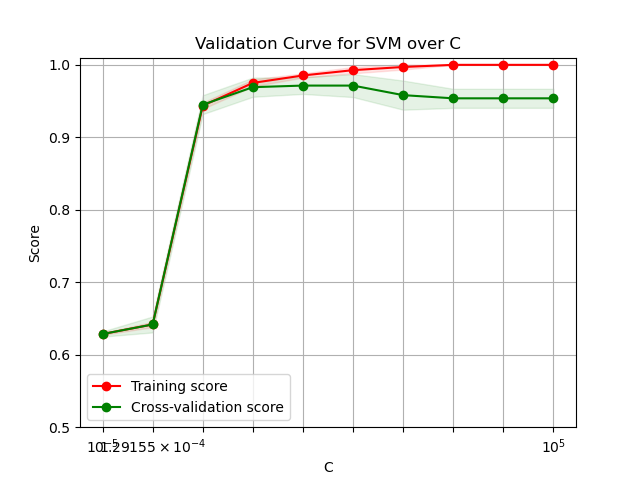
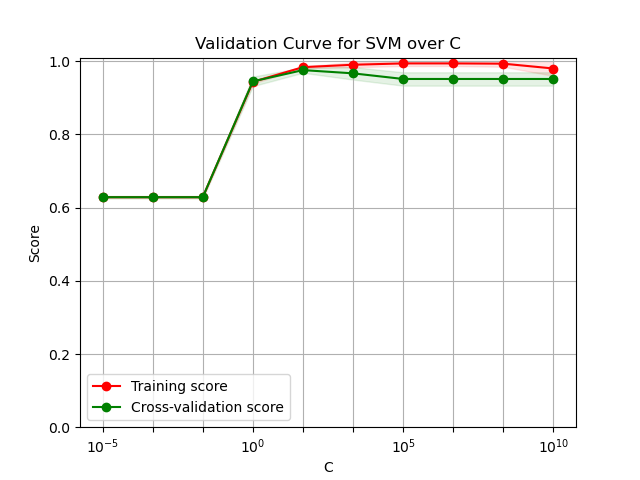
pr1 figures update

diff --git a/pr1/SVM.py b/pr1/SVM.py
@@ -29,7 +29,8 @@ class SupportVectorMachine(object):
         """
         clf_svm = SVC(random_state=42)
         param_grid = {'C': np.logspace(-5, 5, 10),
-                      'kernel': ['linear', 'poly', 'rbf', 'sigmoid']}
+                      'kernel': ['linear', 'poly', 'rbf', 'sigmoid'],
+                      'gamma': np.logspace(-5, 5, 10)}
         clf_svm.fit(X_train,y_train)
         print("SVM Accuracy on the Train set: ", clf_svm.score(X_train, y_train))
 
@@ -43,8 +44,8 @@ class SupportVectorMachine(object):
 
         if self.verbose:
             util.plot_learning_curve(self.dataset, best_svm, X_train, y_train, np.linspace(0.2,1,5, endpoint=True), title="Learning Curve for SVM")
-            util.plot_validation_curve(self.dataset, best_svm, X_train, y_train, title="Validation Curve for SVM over C", xlabel='C', p_name="C", p_range=np.logspace(-5, 5, 10), cv=4, log = True)
-            util.plot_validation_curve(self.dataset, best_svm, X_train, y_train, title="Validation Curve for SVM over kernel", xlabel='kernel', p_name="kernel", p_range=['linear', 'poly', 'rbf', 'sigmoid'], cv=4)
+            util.plot_validation_curve(self.dataset, best_svm, X_train, y_train, title="Validation Curve for SVM over C", xlabel='C', p_name="C", p_range=np.logspace(-5, 10, 10), ylim=(0, 1.01), cv=4, log = True)
+            util.plot_validation_curve(self.dataset, best_svm, X_train, y_train, title="Validation Curve for SVM over gamma", xlabel='gamma', p_name="gamma", p_range=np.logspace(-5, 10, 10), ylim=(0, 1.01), cv=4, log = True)
 
         start = time.time()
         best_svm.fit(X_train, y_train)

diff --git a/pr1/NN.py b/pr1/NN.py
@@ -24,7 +24,7 @@ class NeuralNetwork(object):
         build and train decision tree
         """
         clf_nn = MLPClassifier(random_state=42, max_iter=5000)
-        param_grid = {'hidden_layer_sizes': np.arange(1, 30),
+        param_grid = {'hidden_layer_sizes': np.arange(1, 100, 10),
                       'activation': ['identity', 'logistic', 'tanh', 'relu']}
         clf_nn.fit(X_train,y_train)
         print("NN Accuracy on the Train set: ", clf_nn.score(X_train, y_train))
@@ -37,7 +37,7 @@ class NeuralNetwork(object):
 
         if self.verbose:
             util.plot_learning_curve(self.dataset, best_nn, X_train, y_train, np.linspace(0.2,1,5, endpoint=True), title="Learning Curve for NN")
-            util.plot_validation_curve(self.dataset, best_nn, X_train, y_train, title="Validation Curve for Neural Network over hidden_layer_sizes", xlabel='hidden_layer_sizes', p_name="hidden_layer_sizes", p_range=np.arange(1, 30), cv=4)
+            util.plot_validation_curve(self.dataset, best_nn, X_train, y_train, title="Validation Curve for Neural Network over hidden_layer_sizes", xlabel='hidden_layer_sizes', p_name="hidden_layer_sizes", p_range=np.arange(1, 100, 10), cv=4)
             util.plot_validation_curve(self.dataset, best_nn, X_train, y_train, title="Validation Curve for Neural Network over activation", xlabel='activation', p_name="activation", p_range=['identity', 'logistic', 'tanh', 'relu'], cv=4)
         
         start = time.time()

diff --git a/pr1/READEME.md b/pr1/READEME.md
@@ -76,3 +76,64 @@
     - [ ] Analyze results isolated to other algoritms
     - [ ] Compare and contrast results across algorithms and across datasets
 - [ ] Write solid conclusion
+
+
+
+Loading MNIST dataset...
+MNIST dataset loaded.
+At depth: 15
+Decision Tree Accuracy on the Train set:  1.0
+Best parameters: {'ccp_alpha': 0.0, 'max_depth': 11}
+Decision Tree Training time: 0.014246940612792969
+Best Decision Tree Accuracy on the Train set:  0.9832985386221295
+Decision Tree Accuracy on the Test set:  0.8388888888888889
+At depth: 3
+Base Decision Tree Accuracy on the Train set:  0.4732080723729993
+Best parameters: {'learning_rate': 0.03162277660168379, 'n_estimators': 81}
+Boost Decision Tree Training time: 0.6027874946594238
+Boost Decision Tree Accuracy on the Train set:  0.9478079331941545
+Boost Decision Tree Accuracy on the Test set:  0.9111111111111111
+KNN Accuracy on the Train set:  0.9895615866388309
+Best parameters: {'n_neighbors': 4, 'weights': 'distance'}
+KNN Training time: 0.0020766258239746094
+Best KNN Accuracy on the Train set:  1.0
+KNN Accuracy on the Test set:  0.9833333333333333
+SVM Accuracy on the Train set:  0.9965205288796103
+Best parameters: {'C': 46.41588833612782, 'kernel': 'rbf'}
+SVM Training time: 0.027467727661132812
+Best SVM Accuracy on the Train set:  1.0
+SVM Accuracy on the Test set:  0.9861111111111112
+NN Accuracy on the Train set:  1.0
+Best parameters: {'activation': 'logistic', 'hidden_layer_sizes': 21}
+NN Training time: 1.8989779949188232
+Best NN Accuracy on the Train set:  1.0
+NN Accuracy on the Test set:  0.9638888888888889
+Loading Breast Cancer Wisconsin dataset...
+Breast Cancer Wisconsin dataset loaded.
+At depth: 7
+Decision Tree Accuracy on the Train set:  1.0
+Best parameters: {'ccp_alpha': 0.00736842105263158, 'max_depth': 7}
+Decision Tree Training time: 0.010214567184448242
+Best Decision Tree Accuracy on the Train set:  0.989010989010989
+Decision Tree Accuracy on the Test set:  0.956140350877193
+At depth: 3
+Base Decision Tree Accuracy on the Train set:  0.978021978021978
+Best parameters: {'learning_rate': 1.0, 'n_estimators': 61}
+Boost Decision Tree Training time: 0.2973771095275879
+Boost Decision Tree Accuracy on the Train set:  1.0
+Boost Decision Tree Accuracy on the Test set:  0.9649122807017544
+KNN Accuracy on the Train set:  0.9802197802197802
+Best parameters: {'n_neighbors': 10, 'weights': 'distance'}
+KNN Training time: 0.0009984970092773438
+Best KNN Accuracy on the Train set:  1.0
+KNN Accuracy on the Test set:  0.956140350877193
+SVM Accuracy on the Train set:  0.9868131868131869
+Best parameters: {'C': 0.2782559402207126, 'kernel': 'linear'}
+SVM Training time: 0.0039038658142089844
+Best SVM Accuracy on the Train set:  0.9868131868131869
+SVM Accuracy on the Test set:  0.9736842105263158
+NN Accuracy on the Train set:  0.9956043956043956
+Best parameters: {'activation': 'identity', 'hidden_layer_sizes': 6}
+NN Training time: 0.15912890434265137
+Best NN Accuracy on the Train set:  0.9846153846153847
+NN Accuracy on the Test set:  0.9912280701754386
